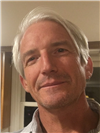
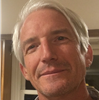
make images square so same size adds actual links to staff adds bonus writing to the o-week list section

diff --git a/backend/queries/Week-OListQueries.js b/backend/queries/Week-OListQueries.js
@@ -20,9 +20,8 @@ module.exports = async function getWeekOList() {
                     if(err){
                         reject(err)
                     }else{
-                        paragraphs = paragraphObj.map(para => new Paragraph(para.ParagraphTitle,para.ParagraphText,para.ImageID));
+                        paragraphs = paragraphObj.map(para => new Paragraph(para.ParagraphTitle,para.ParagraphText,para.ImageID,para.AdditionalText));
                         const returnObj = new Section(rows[0].SectionTitle,paragraphs)
-                        console.log(returnObj)
                         resolve(returnObj);
                     }
                 })

diff --git a/web-app/src/components/FacultyStaff.js b/web-app/src/components/FacultyStaff.js
@@ -1,9 +1,9 @@
 import { Col } from "react-bootstrap";
 import {  getFacultyImage } from "../Helper";
-export const FacultyStaff = ({ Name, JobDescription, ImageID,Email}) => {
+export const FacultyStaff = ({ Name, JobDescription, ImageID,Email,Link}) => {
   return (
     <Col size={12} sm={6} md={4}  className="proj-faculty-wrap">
-      <a href={'https://google.com'} style={{ all: 'unset' }}>
+      <a href={Link} target="_blank" style={{ all: 'unset' }}>
       <div className="proj-imgbx"> 
         <img className="proj-img-content" src= {getFacultyImage(ImageID)}/>
         <div className="proj-txtx">

diff --git a/backend/models/FacultyModels.js b/backend/models/FacultyModels.js
@@ -9,12 +9,13 @@ class FacultyGroup{
 }
 
 class FacultyMember{
-    constructor(FirstName, LastName,Title,ContactInformation, JobRole,Subject){
+    constructor(FirstName, LastName,Title,ContactInformation, JobRole,Subject, Link){
         this.Name = FirstName + ' ' + LastName;
         this.Title = Title;
-        this.JobDescription = JobRole + (Subject ? ', ' + Subject : '');
+        this.JobDescription = JobRole ? JobRole + (Subject ? ', ' + Subject : '') : Subject;
         this.Email = ContactInformation;
         this.ImageID = FirstName;
+        this.Link = Link
     }
 }
 

diff --git a/backend/queries/FacultyQueries.js b/backend/queries/FacultyQueries.js
@@ -33,7 +33,8 @@ module.exports = async function getFaculties() {
                   staff.Title,
                   staff.Email,
                   staff.JobRole,
-                  staff.Subject
+                  staff.Subject,
+                  staff.FacultyLink
                 );
                 facultyGroup.FacultyMembers.push(facultyMember);
               });

diff --git a/backend/models/ParagraphModel.js b/backend/models/ParagraphModel.js
@@ -1,10 +1,10 @@
 class Paragraph{
-  constructor(ParagraphTitle, ParagraphText,ImageID){
+  constructor(ParagraphTitle, ParagraphText,ImageID,AdditionalText){
     this.ParagraphTitle = ParagraphTitle;
     this.ParagraphText = ParagraphText;
     this.ImageID = ImageID;
+    this.AdditionalText = AdditionalText
   };
-
 }
 
 module.exports = {Paragraph};
